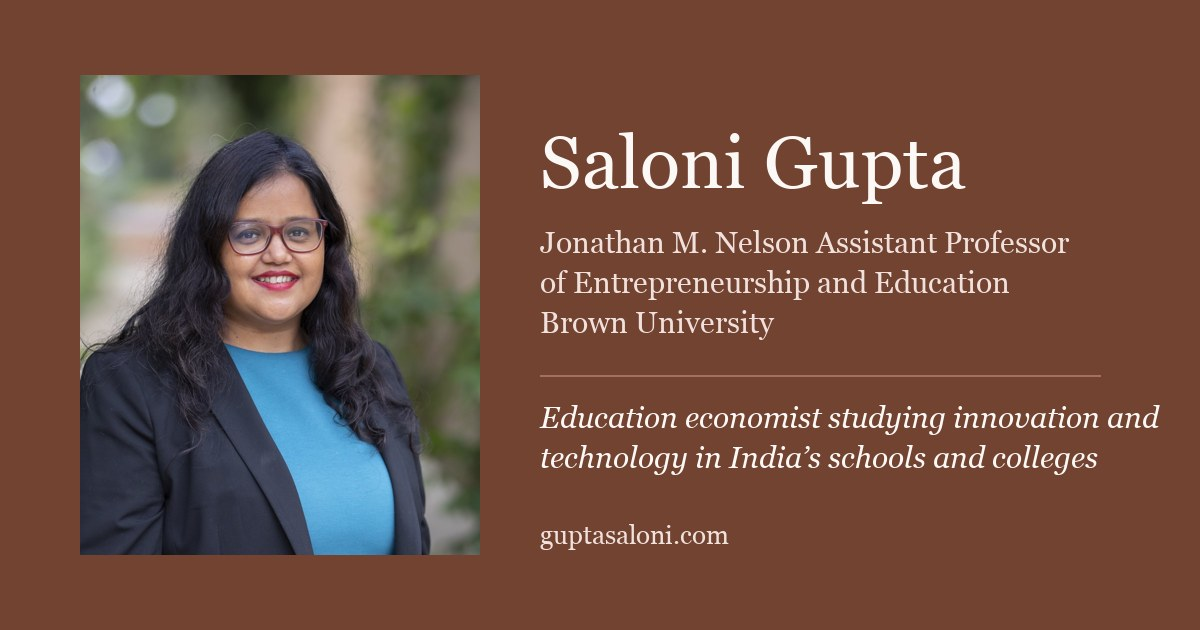
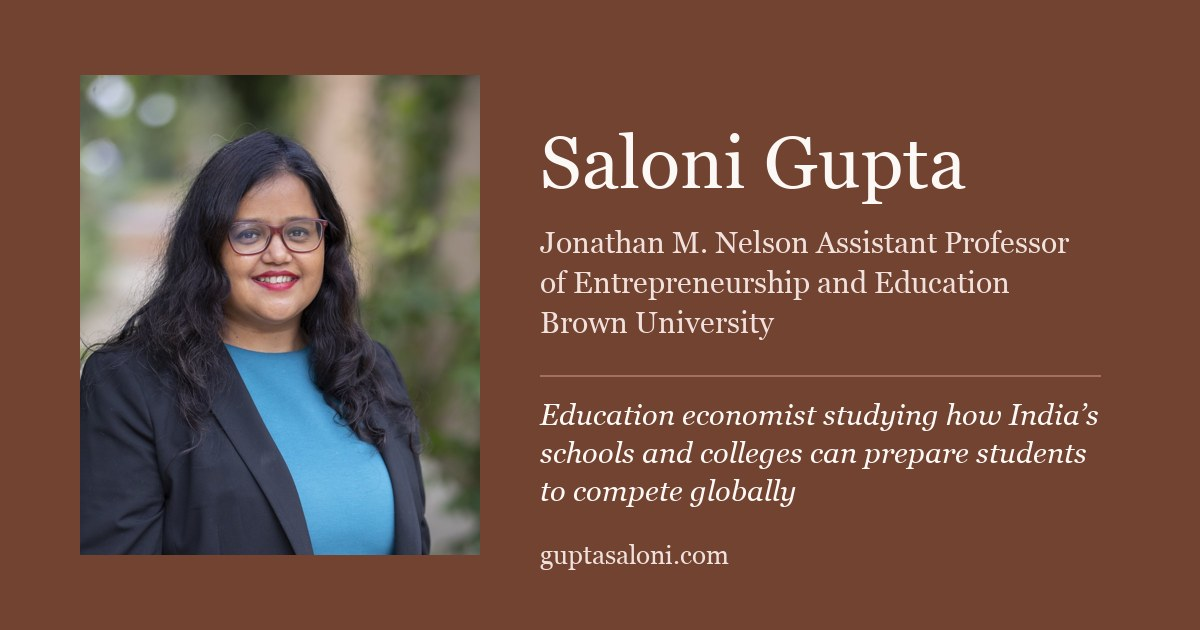
Headline: how India's schools and colleges can prepare students to compete globally

Changed region(s): [[0.4317, 0.6333, 0.9558, 0.8143], [0.4317, 0.8444, 0.6167, 0.9048]]

diff --git a/index.html b/index.html
@@ -60,7 +60,7 @@ document.documentElement.classList.add("js");
       <img class="headshot" src="assets/headshot.jpg" alt="Portrait of Saloni Gupta" width="260" height="312">
       <div class="hero-text">
         <p class="eyebrow">Welcome</p>
-        <p class="tagline">Education economist studying innovation and technology in India’s schools and colleges.</p>
+        <p class="tagline">Education economist studying how India’s schools and colleges can prepare students to compete globally.</p>
         <div class="bio">
       <p>I am the Jonathan M. Nelson Assistant Professor of Entrepreneurship and Education at <a class="quiet" href="https://education.brown.edu/">Brown University</a>. Some of my current projects examine how college students learn to use generative AI to become experts, whether schools can teach innovation, how personalized adaptive learning performs at scale, and whether diversity initiatives help high-achieving women engineers land better jobs.</p>
       <p>I received my Ph.D. in <a class="quiet" href="https://www.tc.columbia.edu/education-policy-and-social-analysis/economics-and-education/">Economics and Education</a> from Teachers College, Columbia University (2024) and was a postdoctoral fellow at the <a class="quiet" href="https://kingcenter.stanford.edu/people/saloni-gupta">Stanford King Center on Global Development</a> (2025).</p>
